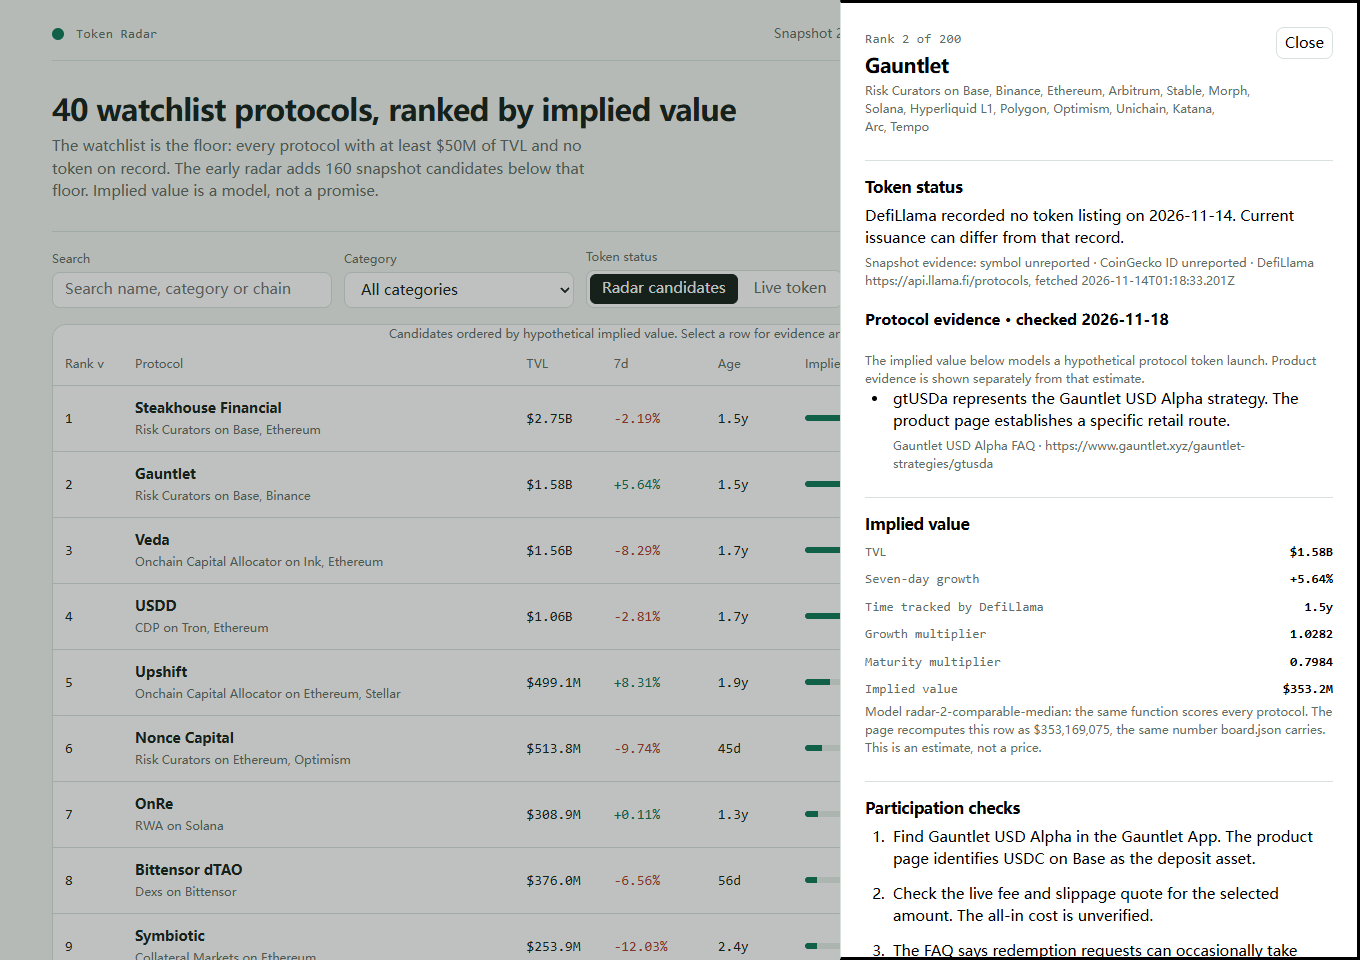
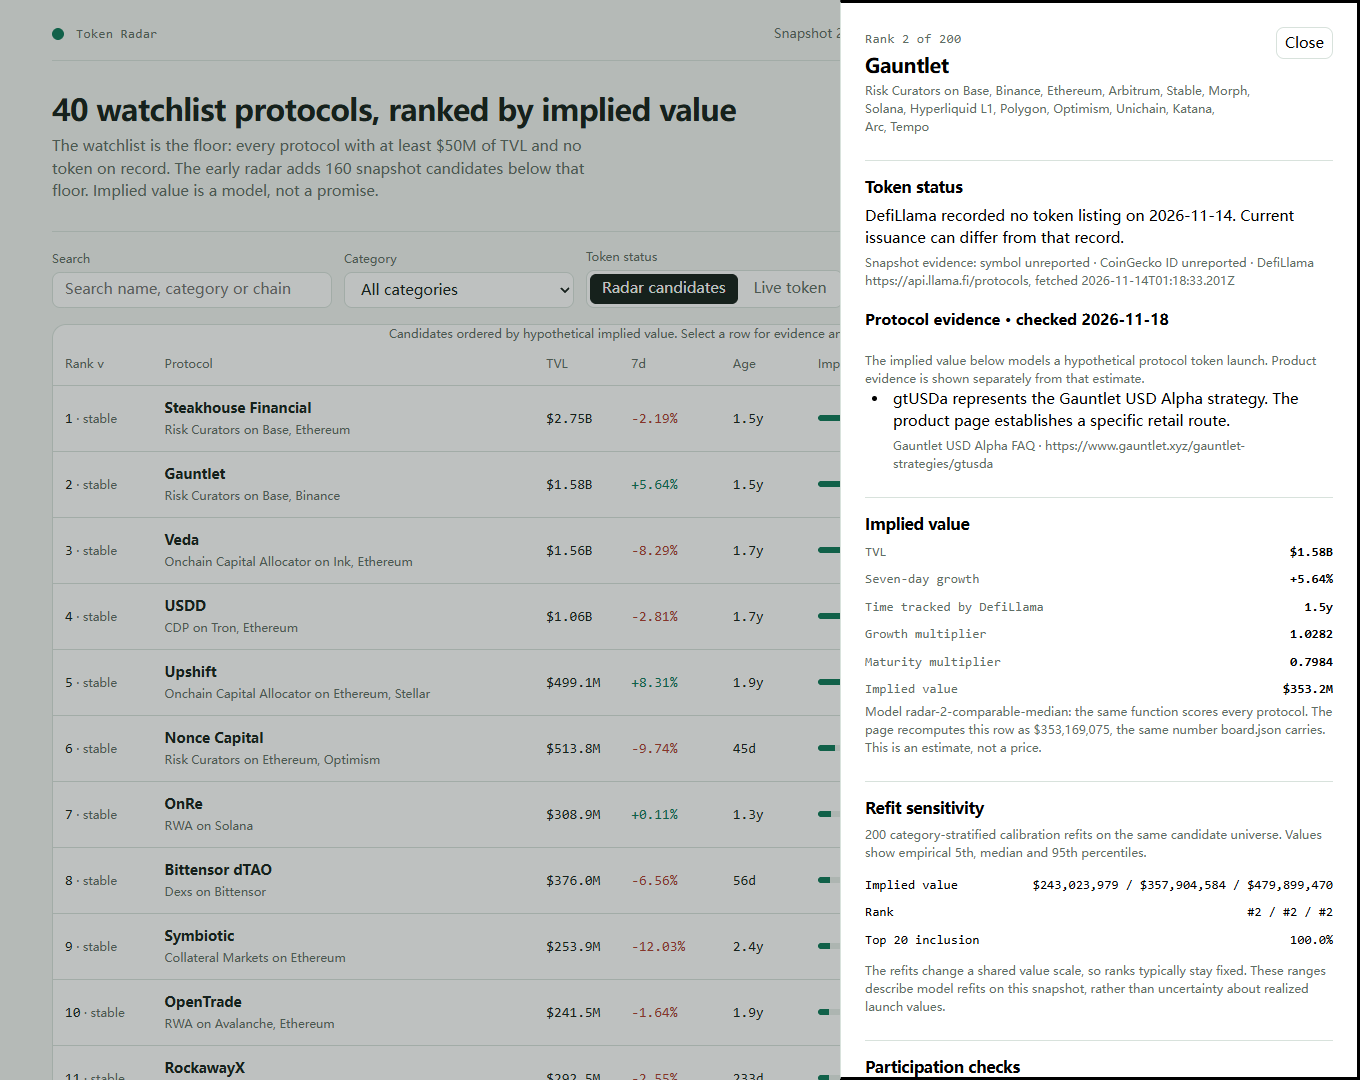
Verify refit ranges in the offline page and refresh screenshots

diff --git a/tests/radar.test.ts b/tests/radar.test.ts
@@ -2,6 +2,7 @@ import assert from 'node:assert/strict';
 import { readFileSync } from 'node:fs';
 import test from 'node:test';
 import { buildRadar, calibrateModel, impliedValue, MODEL, parseSnapshot } from '../lib/model.ts';
+import { measureRefitSensitivity } from '../lib/stability.ts';
 import { productResearch } from '../lib/evidence.ts';
 
 const path = process.env.RADAR_SNAPSHOT;
@@ -69,4 +70,25 @@ test('each real top-20 candidate has dated identity and route evidence', () => {
     assert.equal(new URL(evidence.source).protocol, 'https:');
     assert.equal(row.farm_steps[0], evidence.route);
   }
+});
+
+test('stratified refits reproduce candidate ranges and preserve calibrated category support', () => {
+  const { board } = buildRadar(snapshot);
+  const keys = board.map(row => row.slug);
+  const original = measureRefitSensitivity(snapshot, keys);
+  const replay = measureRefitSensitivity({ ...snapshot, protocols: [...snapshot.protocols].reverse() }, keys);
+  assert.deepEqual(replay, original);
+  assert.equal(original.refits, 200);
+  assert.equal(original.rows.size, keys.length);
+  assert.equal(original.category_strata_sizes.reduce((sum, size) => sum + size, 0), original.comparable_count);
+  assert.ok(original.category_strata_sizes.length > 1);
+  assert.ok(original.pooled_comparable_count > 0);
+  assert.equal([...original.rows.values()].reduce((sum, row) => sum + row.top_count_hits, 0),
+    original.refits * original.top_count);
+  for (const row of original.rows.values()) {
+    assert.ok(1 <= row.rank.p05 && row.rank.p05 <= row.rank.median && row.rank.median <= row.rank.p95 && row.rank.p95 <= keys.length);
+    assert.ok(1 <= row.value_usd.p05 && row.value_usd.p05 <= row.value_usd.median && row.value_usd.median <= row.value_usd.p95);
+    assert.ok(row.top_count_hits >= 0 && row.top_count_hits <= original.refits);
+  }
+  assert.ok([...original.rows.values()].some(row => row.value_usd.p05 < row.value_usd.p95));
 });

diff --git a/dashboard/app.js b/dashboard/app.js
@@ -175,7 +175,7 @@
       },
         el('td', null,
           el('span', { class: 'num', text: String(r.rank) }),
-          el('span', { class: 'sub', title: 'Refit rank: 5th to 95th percentile', text: ' · ' + rankBand(r.refit_sensitivity.rank) })
+          el('span', { class: 'sub', title: 'Refit rank: 5th to 95th percentile', text: r.refit_sensitivity.rank.p05 === r.refit_sensitivity.rank.p95 ? ' · stable' : ' · ' + rankBand(r.refit_sensitivity.rank) })
         ),
         el('td', null, el('div', { class: 'name' },
           el('b', { text: r.name }),

diff --git a/README.md b/README.md
@@ -30,3 +30,7 @@ node main.ts --input /path/to/kit/input/snapshot.json --output ./out
 ```
 
 The second entrypoint run rebuilds the dossier from the final screenshots.
+
+## Refit sensitivity
+
+The detail panel summarizes 200 seeded calibration refits with the same candidates and category-stratified sampling of distinct traded comparables. Categories with fewer than four comparables and unlabelled rows share a pool. Each refit uses the same bounded median calibration and the same scoring formula as the main board. The refits change a shared scale, so ranks usually remain fixed. The reported percentiles and top-20 frequency summarize refits of this snapshot.
